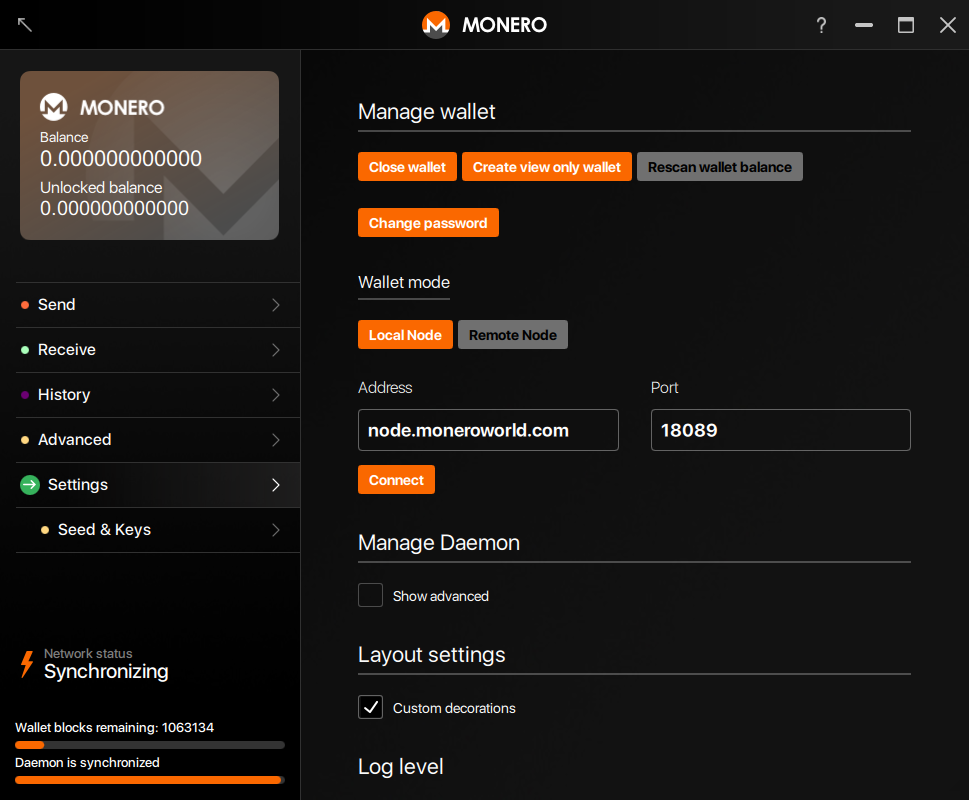
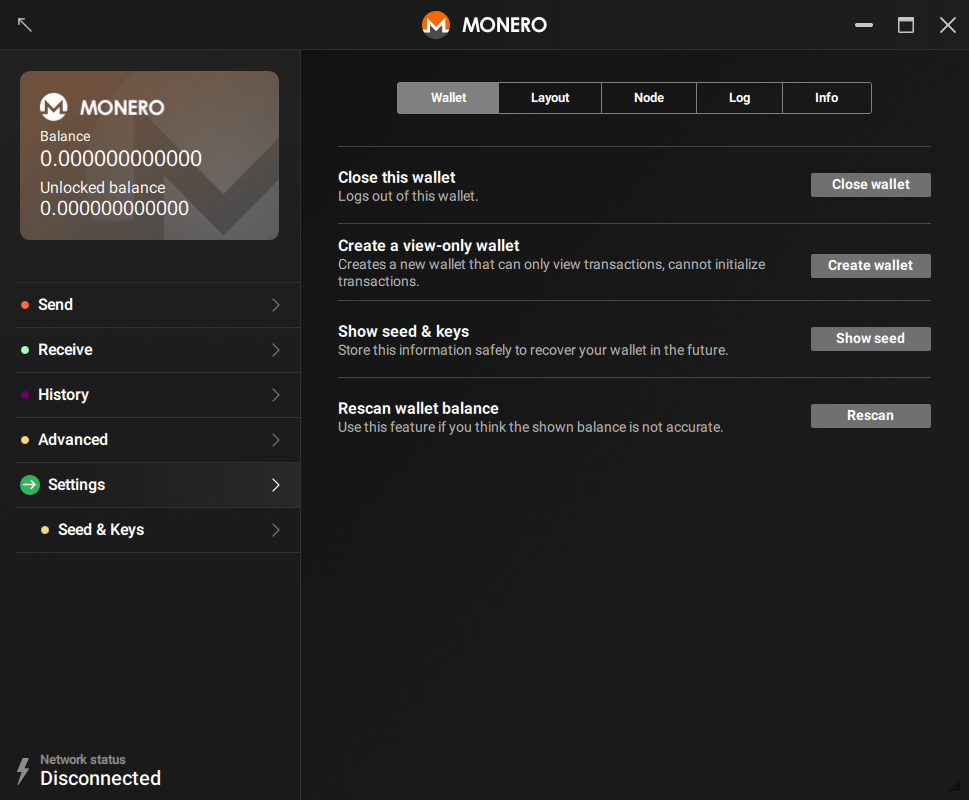
User guide "view-wallet" update to 0.13 - Bump version to 1.2.0 - AR new screenshots (all of them were EN), text not updated: will need an arabic speaker. - EN new `settings` screnshot, text update, bump to 1.2.0 - ES new `settings` screnshot, text update (untranslated), bump to 1.2.0 - FR new `sett

diff --git a/_i18n/fr/resources/user-guides/view_only.md b/_i18n/fr/resources/user-guides/view_only.md
@@ -1,4 +1,4 @@
-{% assign version = '1.1.0' | split: '.' %}
+{% assign version = '1.2.0' | split: '.' %}
 {% include disclaimer.html translated="true" version=page.version %}
 Un portefeuille d'audit ne peut que voir quelles transactions entrantes vous appartiennent. Il ne peut pas dépenser vos Moneroj, en fait il ne peut même pas voir les transactions sortantes de votre portefeuille. Cela rend le portefeuille d'audit particulièrement intéressant pour :
 
@@ -17,11 +17,11 @@ Ensuite, créez votre portefeuille d'audit en tapant `monero-wallet-cli --genera
 
 #### GUI
 
-Ouvrez un portefeuille existant ou créez en un nouveau en utilisant `monero-wallet-gui`. Dans le portefeuille, allez à la page `réglages` :
+Ouvrez un portefeuille existant ou créez en un nouveau en utilisant `monero-wallet-gui`. Dans le portefeuille, allez à la page `Réglages` > `Portefeuille` :
 
 ![settings](png/view-only/settings.png)
 
-Cliquez sur `Créer portefeuille d'audit`, Puis donnez lui un nom et un emplacement de stockage avant de cliquer sur la flèche `Droite` :
+Cliquez sur `Créer un portefeuille d'audit` > `Créer un portefeuille`, Puis donnez lui un nom et un emplacement de stockage avant de cliquer sur la flèche `Droite` :
 
 ![create-view-only](png/view-only/create-view-only.png)
 

diff --git a/_i18n/pl/resources/user-guides/view_only.md b/_i18n/pl/resources/user-guides/view_only.md
@@ -1,4 +1,4 @@
-{% assign version = '1.1.0' | split: '.' %}
+{% assign version = '1.2.0' | split: '.' %}
 {% include disclaimer.html translated="true" version=page.version %}
 Portfel tylko do odczytu wyświetla jedynie twoje przychodzące transakcje. Nie może on dokonać żadnej płatności, nie może nawet wyświetlić żadnej transakcji wychodzącej. Portfel tylko do odczytu może być ciekawą opcją dla:
 
@@ -17,11 +17,11 @@ Następnie stwórz swój portfel tylko do odczytu, wpisując `monero-wallet-cli 
 
 #### GUI
 
-Otwórz istniejący portfel lub stwórz nowy, za pomocą funkcji `monero-wallet-gui`. W portfelu przejdź do strony ustawień.
+Otwórz istniejący portfel lub stwórz nowy, za pomocą funkcji `monero-wallet-gui`. W portfelu przejdź do strony `Ustawienia` > `Portfel`.
 
 ![settings](png/view-only/settings.png)
 
-Kliknij w przycisk `Utwórz portfel tylko do podglądu`, nadaj nazwę portfelowi i wybierz jego lokalizację, a następnie kliknij w strzałkę w `prawo`:
+Kliknij w przycisk `Utwórz portfel tylko do podglądu` > `Utwórz portfel`, nadaj nazwę portfelowi i wybierz jego lokalizację, a następnie kliknij w strzałkę w `prawo`:
 
 ![create-view-only](png/view-only/create-view-only.png)
 

diff --git a/_i18n/es/resources/user-guides/view_only.md b/_i18n/es/resources/user-guides/view_only.md
@@ -1,4 +1,4 @@
-{% assign version = '1.1.0' | split: '.' %}
+{% assign version = '1.2.0' | split: '.' %}
 {% include disclaimer.html translated="true" version=page.version %}
 Un monedero de visualización solamente puede ver qué transacciones de entrada te pertenecen. No puede utilizar nada de tu Monero, de hecho ni siquiera puede ver las transacciones de salida del monedero. Esto hace a los monederos de sólo visualización interesantes para
 
@@ -17,11 +17,11 @@ A continuación, crea tu monedero de visualización escribiendo `monero-wallet-c
 
 #### GUI
 
-Abre un monedero existente o crea uno nuevo usando `monero-wallet-gui`. En el ejemplo, ve a la página de `opciones`
+Abre un monedero existente o crea uno nuevo usando `monero-wallet-gui`. En el ejemplo, ve a la página de `Opciones` > `Monedero`
 
 ![settings](png/view-only/settings.png)
 
-Haz clic en `Crear un monedero de visualización`, y dale un nombre y ubicación antes de hacer clic en la flecha de `Siguiente`:
+Haz clic en `Crear un monedero de sólo visualización` > `Crear monedero`, y dale un nombre y ubicación antes de hacer clic en la flecha de `Siguiente`:
 
 ![create-view-only](png/view-only/create-view-only.png)
 

diff --git a/_i18n/it/resources/user-guides/view_only.md b/_i18n/it/resources/user-guides/view_only.md
@@ -1,4 +1,4 @@
-{% assign version = '1.1.0' | split: '.' %}
+{% assign version = '1.2.0' | split: '.' %}
 {% include disclaimer.html translated="false" version=page.version %}
 A view-only wallet can only see which incoming transactions belong to you. It can not spend any of your Monero, in fact it can't even see outgoing transactions from this wallet. This makes view-only wallets particularly interesting for
 
@@ -17,11 +17,11 @@ Next, create your view-only wallet by typing `monero-wallet-cli --generate-from-
 
 #### GUI
 
-Open an existing wallet or create a new one using `monero-wallet-gui`. In the wallet, go to the `settings` page:
+Open an existing wallet or create a new one using `monero-wallet-gui`. In the wallet, go to the `Impostazioni` > `Portafoglio` page:
 
 ![settings](png/view-only/settings.png)
 
-Click on `Create view only wallet`, then give it a name and a storage location before clicking the `Right` arrow:
+Click on `Crea un portafoglio Solo-visualizzazione` > `Crea portafoglio`, then give it a name and a storage location before clicking the `Right` arrow:
 
 ![create-view-only](png/view-only/create-view-only.png)
 

diff --git a/_i18n/en/resources/user-guides/view_only.md b/_i18n/en/resources/user-guides/view_only.md
@@ -1,4 +1,4 @@
-{% assign version = '1.1.0' | split: '.' %}
+{% assign version = '1.2.0' | split: '.' %}
 {% include disclaimer.html translated="true" version=page.version %}
 A view-only wallet can only see which incoming transactions belong to you. It can not spend any of your Monero, in fact it can't even see outgoing transactions from this wallet. This makes view-only wallets particularly interesting for
 
@@ -17,11 +17,11 @@ Next, create your view-only wallet by typing `monero-wallet-cli --generate-from-
 
 #### GUI
 
-Open an existing wallet or create a new one using `monero-wallet-gui`. In the wallet, go to the `settings` page:
+Open an existing wallet or create a new one using `monero-wallet-gui`. In the wallet, go to the `Settings` > `Wallet` page:
 
 ![settings](png/view-only/settings.png)
 
-Click on `Create view only wallet`, then give it a name and a storage location before clicking the `Right` arrow:
+Click on `Create a view only wallet` > `Create wallet`, then give it a name and a storage location before clicking the `Right` arrow:
 
 ![create-view-only](png/view-only/create-view-only.png)
 

diff --git a/resources/user-guides/view_only.md b/resources/user-guides/view_only.md
@@ -4,7 +4,7 @@ title: "View Only Wallets"
 permalink: /resources/user-guides/view_only.html
 mainVersion:
   - "1"
-  - "1"
+  - "2"
   - "0"
 ---
 
